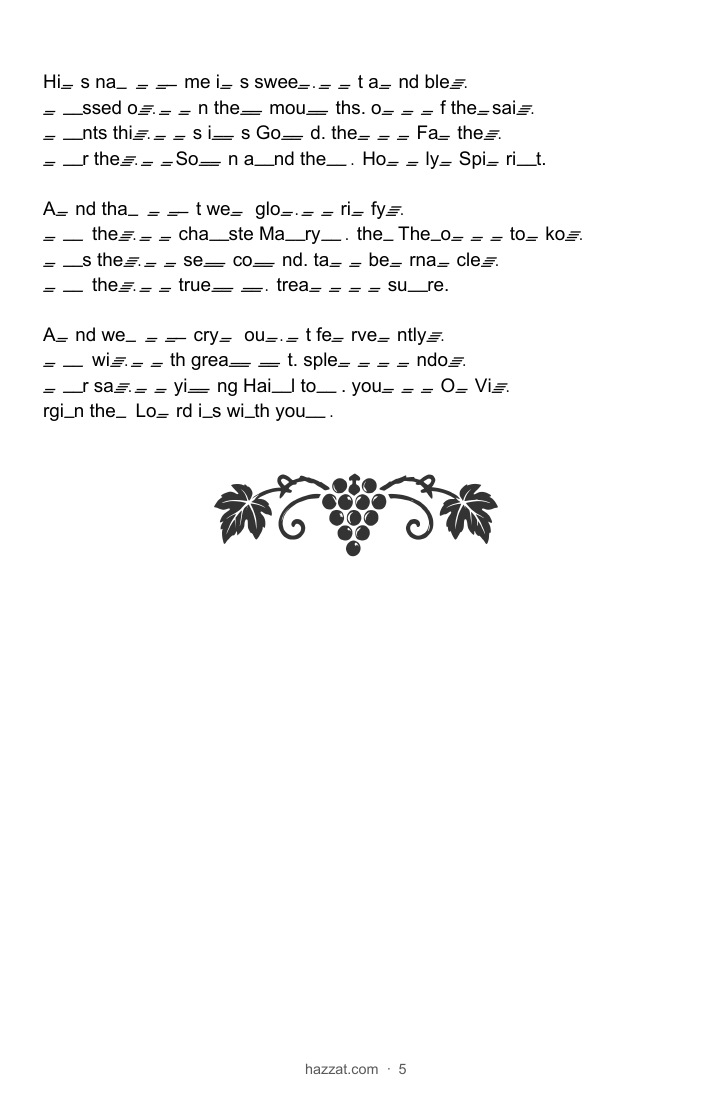
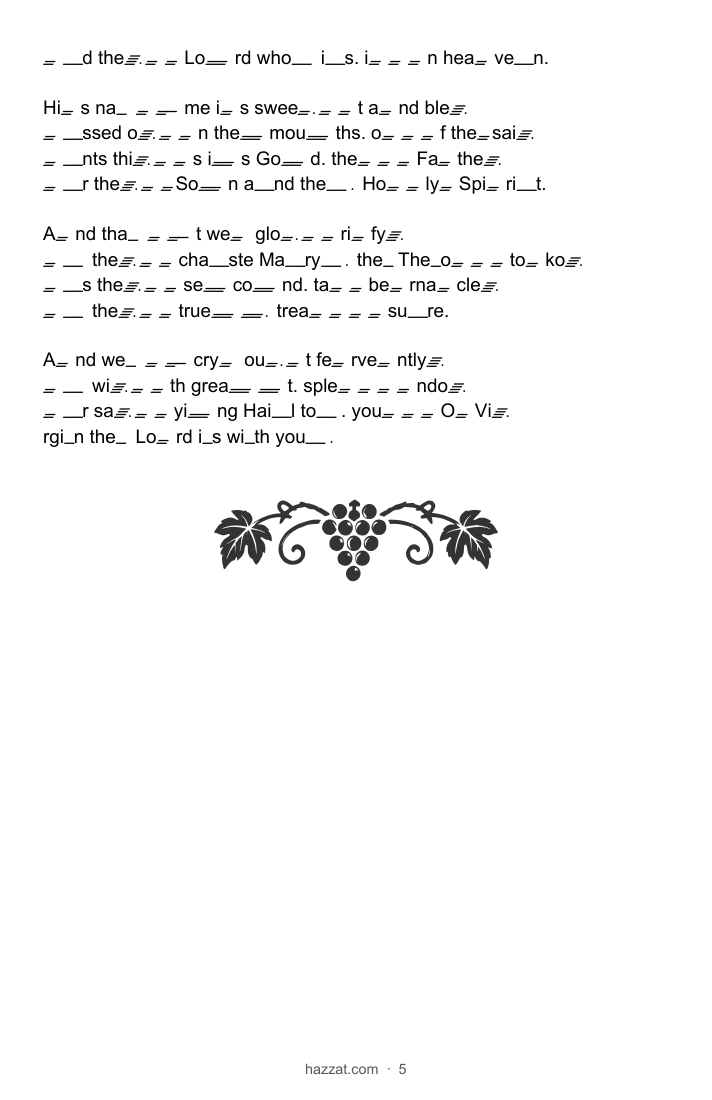
Balance whitespace around booklet cross dividers

diff --git a/src/Booklets/BookletPdfGenerator.ts b/src/Booklets/BookletPdfGenerator.ts
@@ -123,7 +123,7 @@ const BODY_FONT_SIZE = 10.5;
 const HAZZAT_FONT_SIZE = 10.5;
 const ARABIC_FONT_SIZE = 12;
 const TOC_LINE_HEIGHT = 13;
-const CROSS_DIVIDER_ADVANCE = 40; // Includes 12pt of extra padding after the ornament.
+const CROSS_DIVIDER_ADVANCE = 56; // Balances the whitespace above and below the ornament.
 const COVER_TITLE_RULE_Y = 315;
 const COVER_TITLE_MAX_WIDTH = 230;
 const COVER_TITLE_BASE_SIZE = 30;
